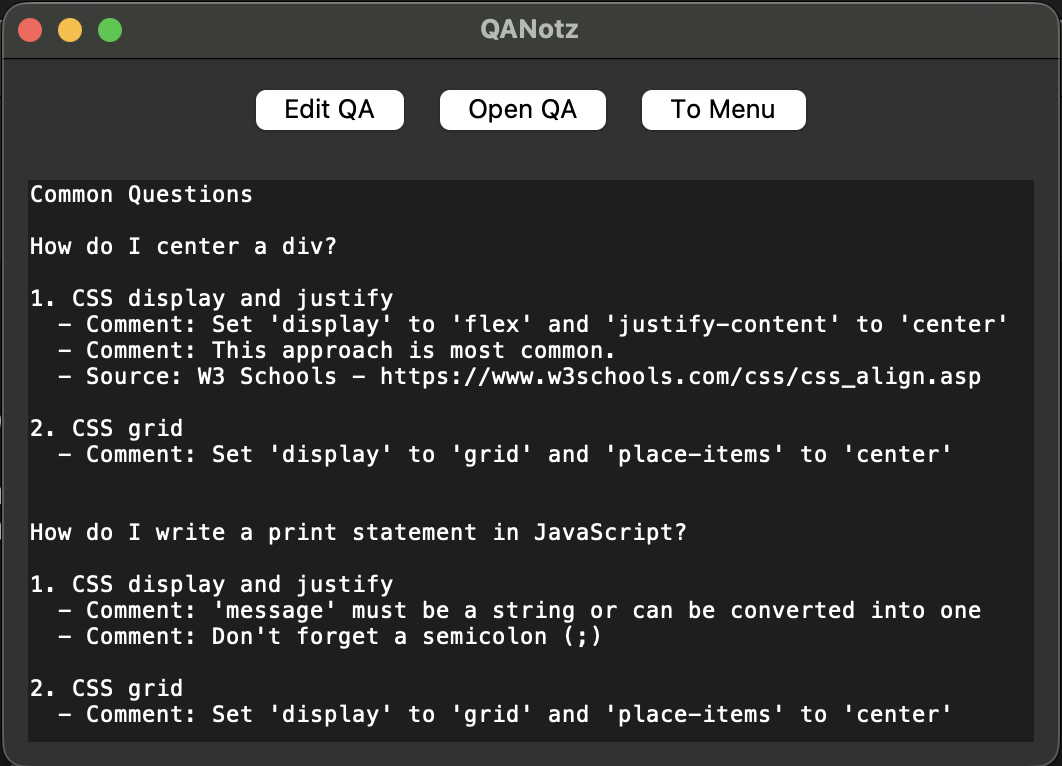
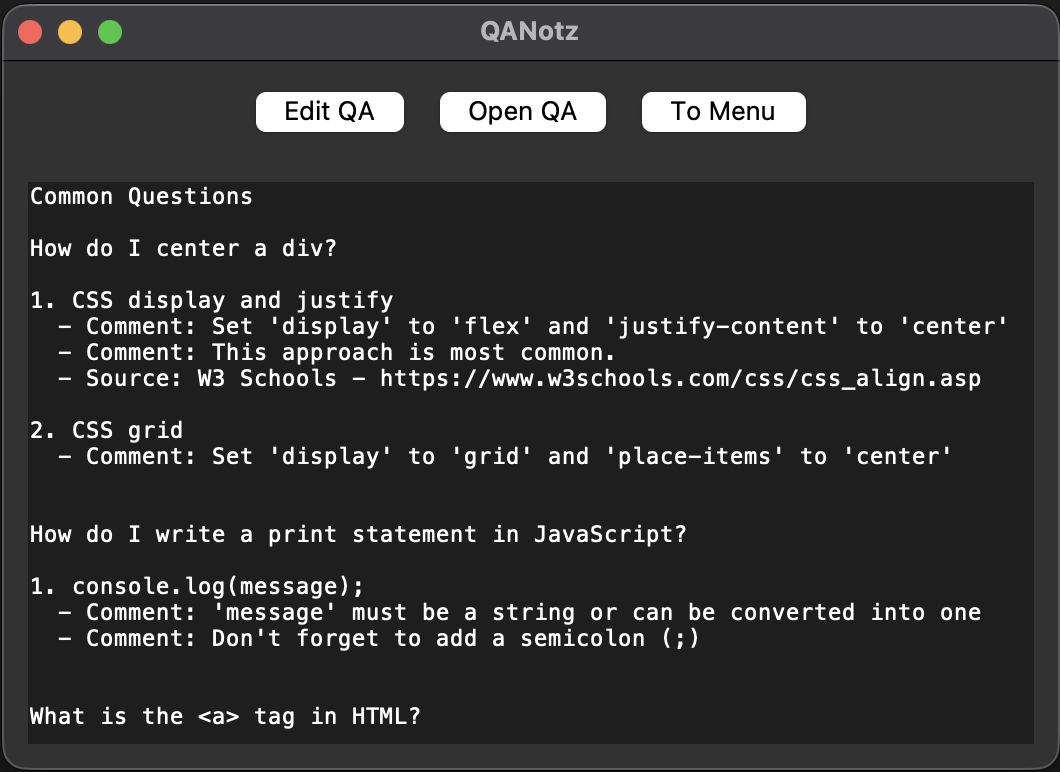
Many updates

diff --git a/qanotz/index.html b/qanotz/index.html
@@ -12,7 +12,7 @@
         <div id="header">
             <a href="../" class="header-item"><img src="../favicon.png" height="32"></a>
             <div id="title" class="header-item" align="center">
-                QANotz
+                <a href="#top">QANotz</a>
             </div>
         </div>
         <div id="hero">
@@ -24,10 +24,27 @@
                 <p id="hero-text">
                     QANotz helps you <strong>write out ideas in a natural question-and-answer format</strong>, so reviewing later feels fresh. Whether you're studying, brainstorming, or just organizing thoughts, <strong>your notes stay clear and easy to revisit.</strong>
                 </p>
+                <a href="https://github.com/alexsvianzon/qanotz" class="button" id="hero-text-button">Check it out on GitHub</a>
             </div>
         </div>
-        <div id="gallery">
-
+        <div id="why-qanotz">
+            <h1 id="why-qanotz-title">Why QANotz?</h1>
+            <div id="why-qanotz-reasons">
+                <div id = "why-qanotz-reason">
+                    <h1>1.</h1>
+                    <p><strong>Learn From Your Notes</strong> - Turn your notes into questions you can actually learn from, not just read.</p>
+                </div> 
+                <div id = "why-qanotz-reason">
+                    <h1>2.</h1>
+                    <p><strong>Effortless Note-Taking</strong> - Capture thoughts without overcomplicating your workflow.</p>
+                </div>
+                <div id = "why-qanotz-reason">
+                    <h1>3.</h1>
+                    <p><strong>Human Friendly Format</strong> - QANLang, a simple tag-based system, helps you get more done in less time.</p>
+                </div>
+            </div>
+        </div>
+        <div id="how-it-works">
         </div>
     </body>
 </html>

diff --git a/qanotz/style.css b/qanotz/style.css
@@ -1,7 +1,31 @@
+html {
+    scroll-behavior: smooth;
+}
+
 body {
     background-color: #70a6d8;
     font-family: 'Lato', sans-serif;
     margin: 0;
+}
+
+a {
+    text-decoration: none;
+    color: inherit;
+}
+
+.button {
+    display: inline-block;
+    padding: 10px 20px;
+    background-color: rgb(22, 195, 126);
+    color: #000000;
+    font-weight: 600;
+    border-radius: 5px;
+    transition: background-color 0.3s ease, transform 0.3s ease;
+}
+
+.button:hover {
+    background-color: rgb(18, 160, 103);
+    transform: scale(1.1);
 }
 
 #header {
@@ -50,6 +74,8 @@ body {
     aspect-ratio: 531 / 383;
     overflow: hidden;
     margin: 0 auto;
+    text-align: center;
+    transition: transform 0.3s cubic-bezier(.79,.14,.15,.86);
 }
 
 #hero-image img {
@@ -60,6 +86,10 @@ body {
     border-radius: 10px;
 }
 
+#hero-image:hover {
+    transform: scale(1.1);
+}
+
 #hero-text {
     font-weight: 300;
 }
@@ -67,9 +97,41 @@ body {
 h1 {
     font-family: 'Gabarito', sans-serif;
     font-weight: 600;
-    text-align: left;
 }
 
-p {
-    text-align: left;
+#why-qanotz {
+    display: flex;
+    flex-direction: column;
+    align-items: center;
+    justify-content: center;
+    background-color: #ffffff;
+    width: 100%;
+}
+
+#why-qanotz-reasons {
+    display: flex;
+    flex-direction: column;
+    align-items: left;
+    justify-content: left;
+}
+
+#why-qanotz-reason {
+    display: flex;
+    flex-direction: row;
+    align-items: center;
+    justify-content: left;
+    gap: 20px;
+}
+
+#why-qanotz-reason p{
+    font-size: 18px;
+}
+
+#how-it-works {
+    display: flex;
+    flex-direction: column;
+    align-items: center;
+    justify-content: center;
+    background-color: #d8a270;
+    width: 100%;
 }
